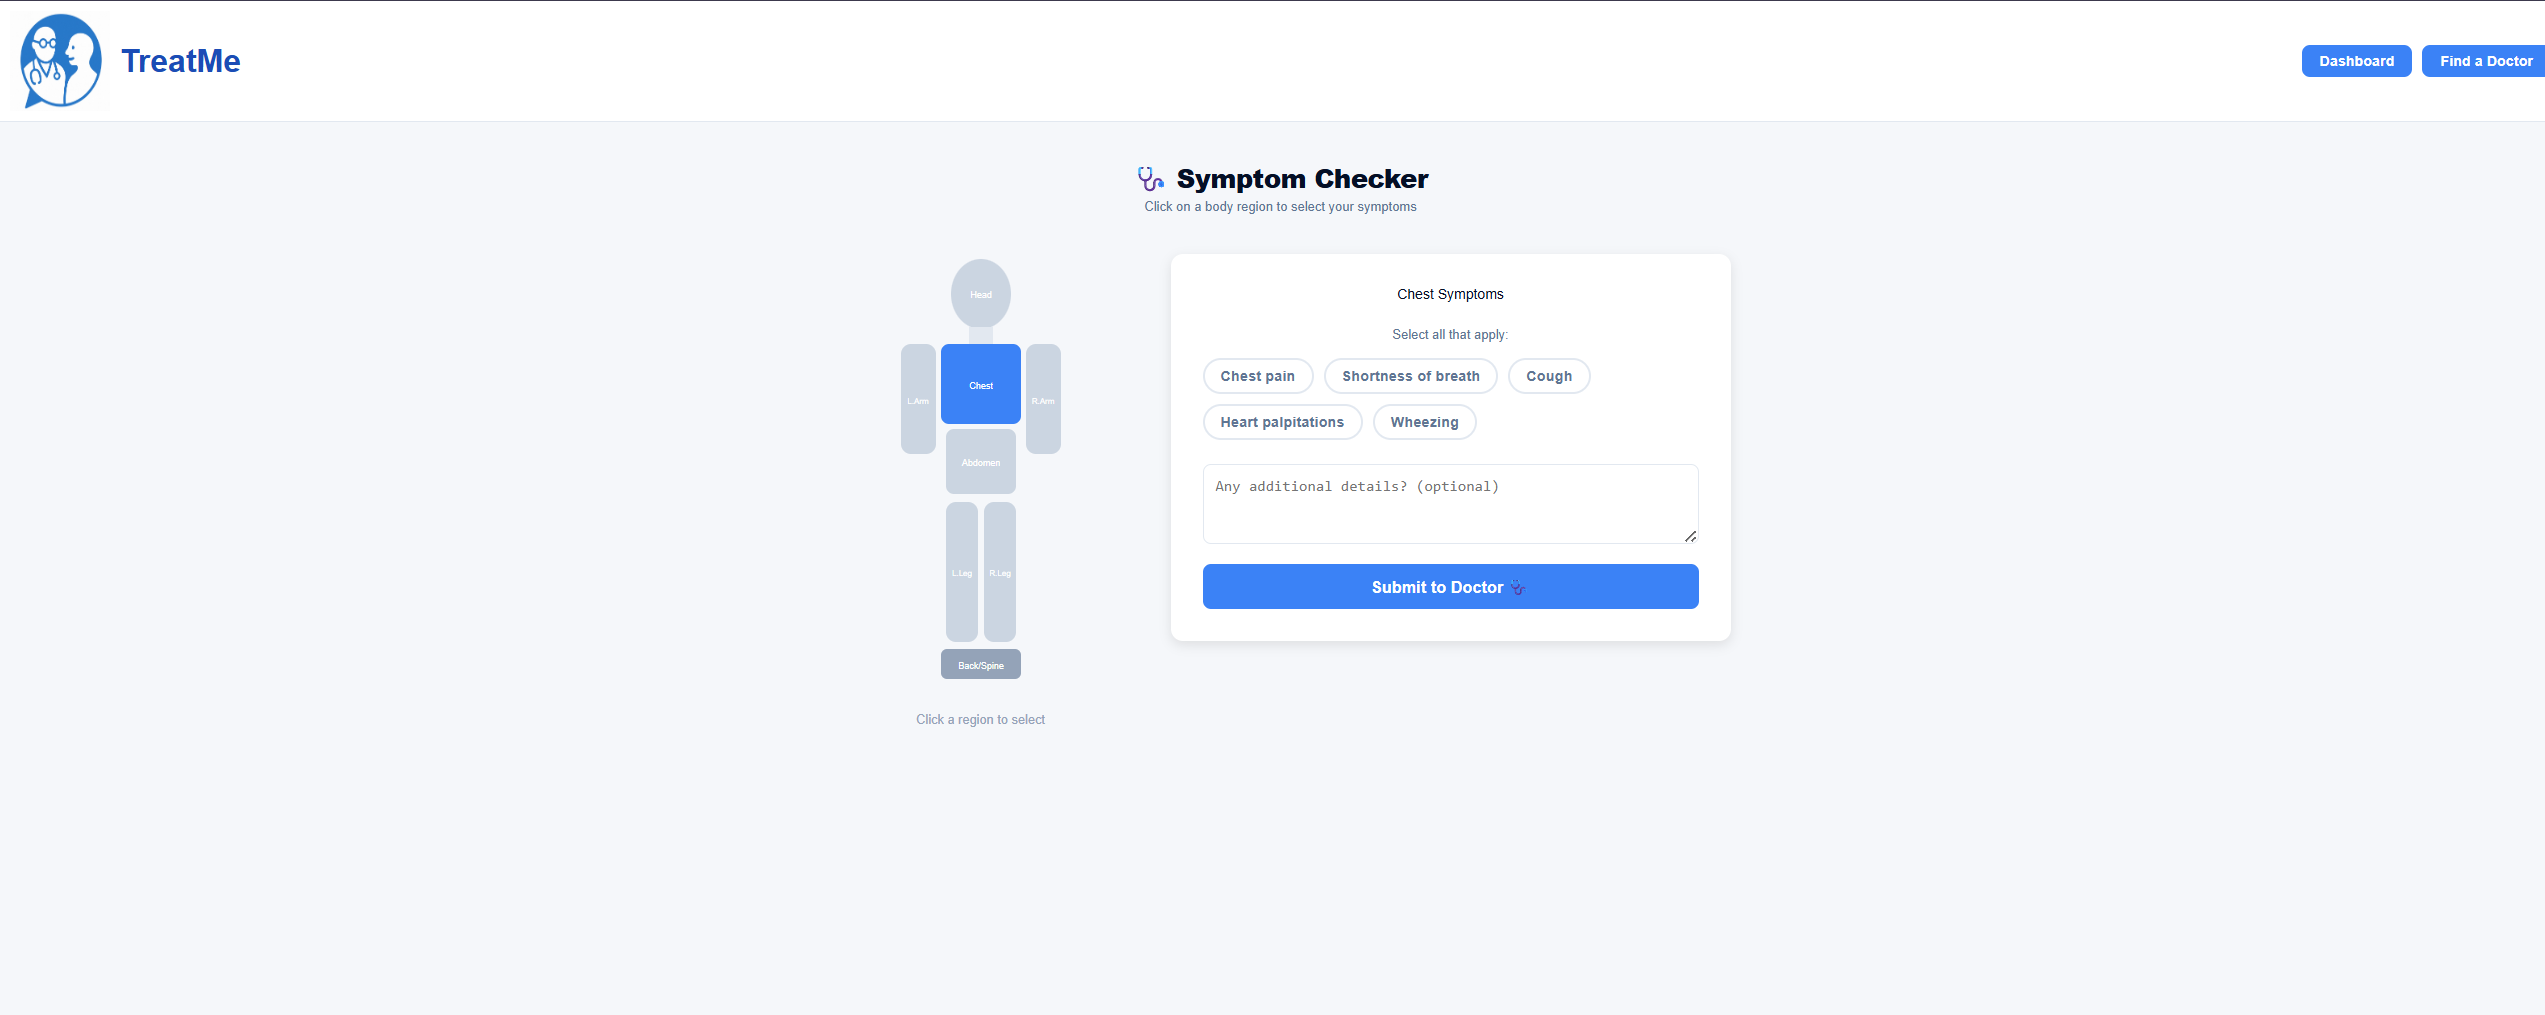
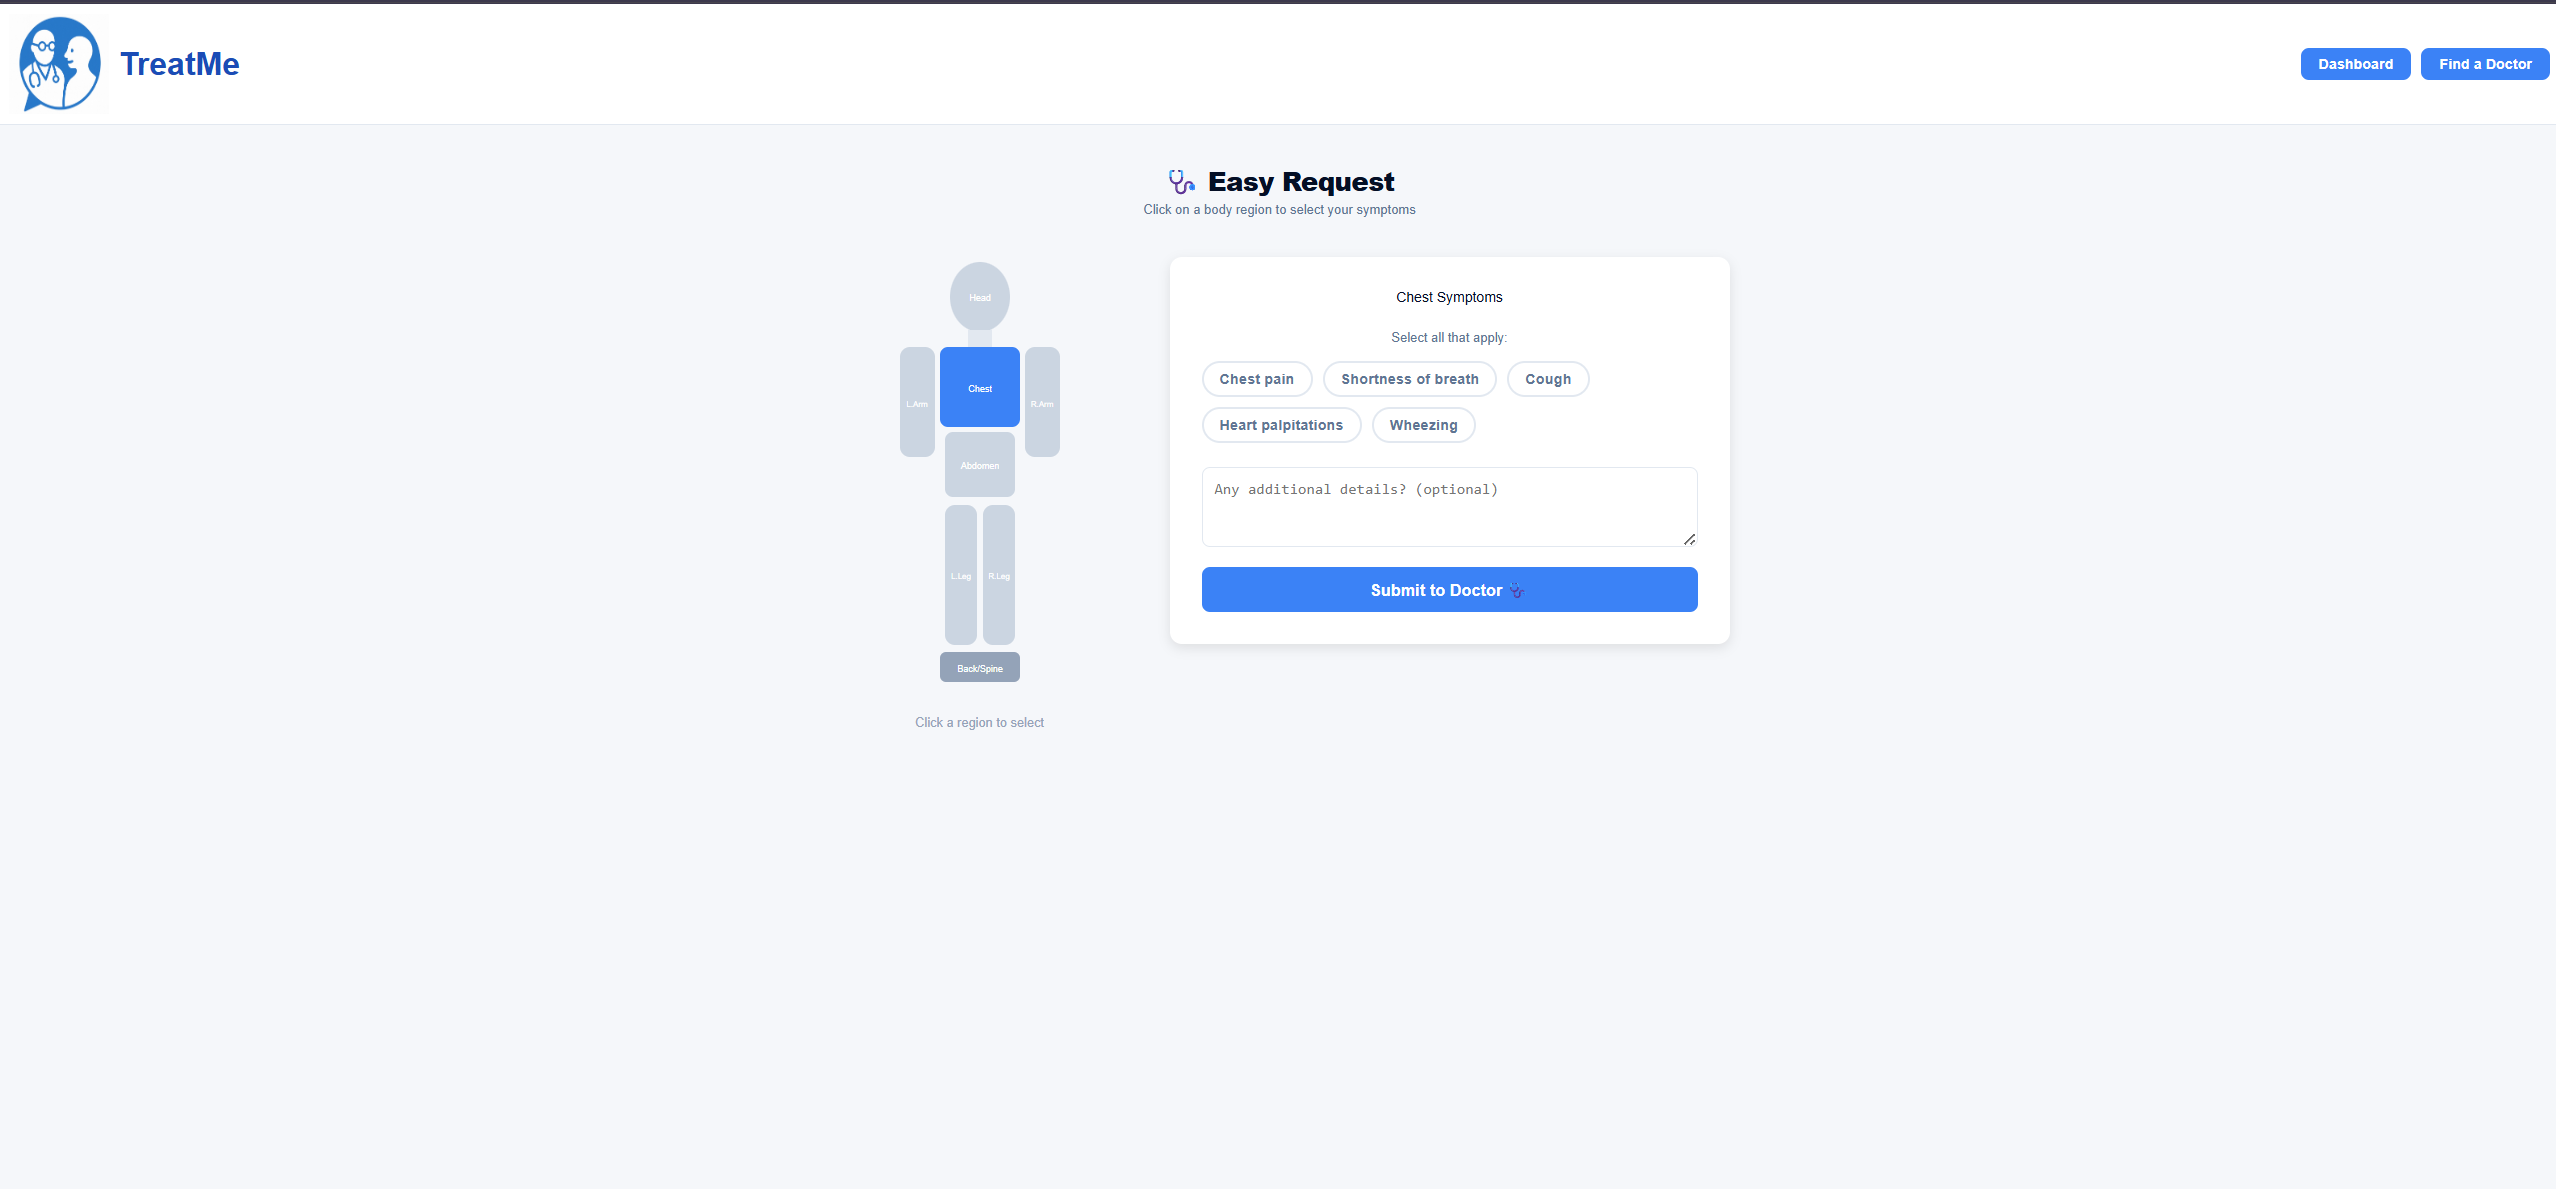
Fixed a plethora of issues and tests

diff --git a/flaskServer/run.py b/flaskServer/run.py
@@ -3,26 +3,29 @@ import time
 import pytest
 
 env = os.getenv('FLASK_ENV', 'development')
-db_url = os.getenv('DATABASE_URL')
-print(f"Connecting to: {db_url}")
-
-def run_tests():
-    base_dir = os.path.dirname(os.path.abspath(__file__))
-    tests_dir = os.path.join(base_dir, 'flaskServer', 'tests')
-    if not os.path.exists(tests_dir):
-        tests_dir = os.path.join(base_dir, 'tests')
-    print(f"Running tests from {tests_dir}")
-    result = pytest.main([tests_dir, '-v', '--tb=short'])
-    if result != 0:
-        print("Tests failed — starting anyway.")
-    else:
-        print("All tests passed!")
 
 if __name__ == '__main__':
+    if os.environ.get('WERKZEUG_RUN_MAIN') != 'true':
+        base_dir = os.path.dirname(os.path.abspath(__file__))
+        tests_dir = os.path.join(base_dir, 'flaskServer', 'tests')
+        if not os.path.exists(tests_dir):
+            tests_dir = os.path.join(base_dir, 'tests')
+            
+        result = pytest.main([tests_dir, '-v', '--tb=short'])
+
+    import sqlalchemy as sa
+    db_url = os.getenv('DATABASE_URL')
+    for i in range(2):
+        try:
+            engine = sa.create_engine(db_url)
+            conn = engine.connect()
+            conn.close()
+            break
+        except Exception:
+            time.sleep(2)
+
     from flaskServer import create_app
     app = create_app()
-
-    run_tests()
 
     if env == 'development':
         app.run(host='0.0.0.0', port=5000, debug=True)

diff --git a/flaskServer/routes.py b/flaskServer/routes.py
@@ -193,7 +193,6 @@ def register():
             errors.append("date_of_birth : Date of birth cannot be in the future")
     except (ValueError, TypeError):
         errors.append("date_of_birth : Invalid date format, use YYYY-MM-DD")
-        age = calculate_age(dob_parsed)
     if errors:
         return jsonify({"status": 400, "errors": errors}), 400
 
@@ -216,7 +215,6 @@ def register():
         first_name=first_name,
         last_name=last_name,
         date_of_birth=dob_parsed,
-        age= age,
         location=location,
         is_banned= False,
         is_suspended=False,

diff --git a/README.md b/README.md
@@ -44,10 +44,11 @@ Our application is an easier solution for patients in rural areas and we provide
 ### Homepage
 ! [Homepage Screenshot](./docs/home.png)
 
+
 ! [Homepage Screenshot](./docs/home1.png)
 
 ### Login Page
-! [Login Page Screenshot](./docs/login.jpeg)
+! [Login Page Screenshot](./docs/login.png)
 
 ### Request Form
 ! [Request Form Screenshot](./docs/newMedicalRequest.png)
